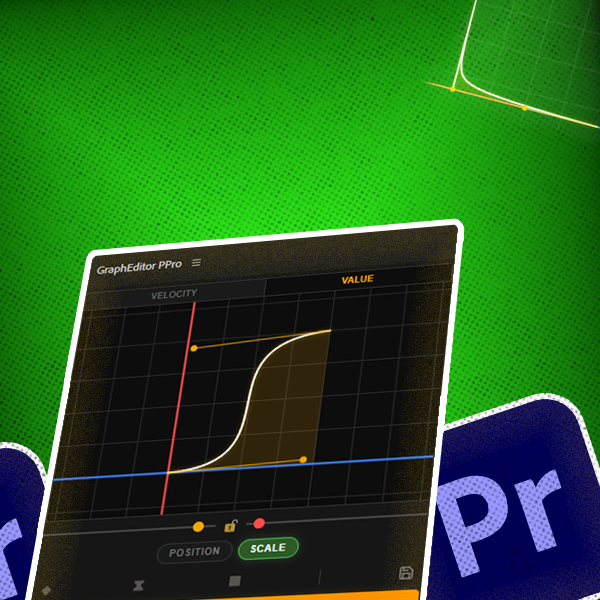
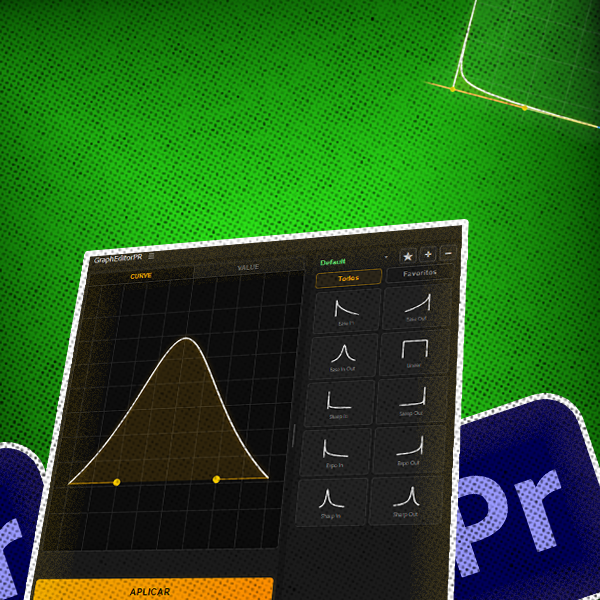
Add files via upload

diff --git a/index.html b/index.html
@@ -106,6 +106,28 @@
                             <p class="card-desc">Purga de RAM y gestión de rendimiento en un solo clic.</p>
                         </div>
                     </a>
+
+                    <a href="https://github.com/Animateoo/MaskUnlikerAE" class="tool-card" target="_blank">
+                        <div class="card-visual">
+                            <img src="MaskUnlikerAE.png" alt="MaskUnlikerAE">
+                        </div>
+                        <div class="card-content">
+                            <span class="card-badge">Script • Máscaras</span>
+                            <h3 class="card-title">MaskUnlikerAE</h3>
+                            <p class="card-desc">Utilidad para trabajar máscaras más rápido en After Effects.</p>
+                        </div>
+                    </a>
+
+                    <a href="https://github.com/Animateoo/AudifyAE" class="tool-card" target="_blank">
+                        <div class="card-visual">
+                            <img src="AudifyAE.png" alt="AudifyAE">
+                        </div>
+                        <div class="card-content">
+                            <span class="card-badge">Script • Audio</span>
+                            <h3 class="card-title">AudifyAE</h3>
+                            <p class="card-desc">Utilidad para acelerar flujos con audio en After Effects.</p>
+                        </div>
+                    </a>
                 </div>
             </section>
 